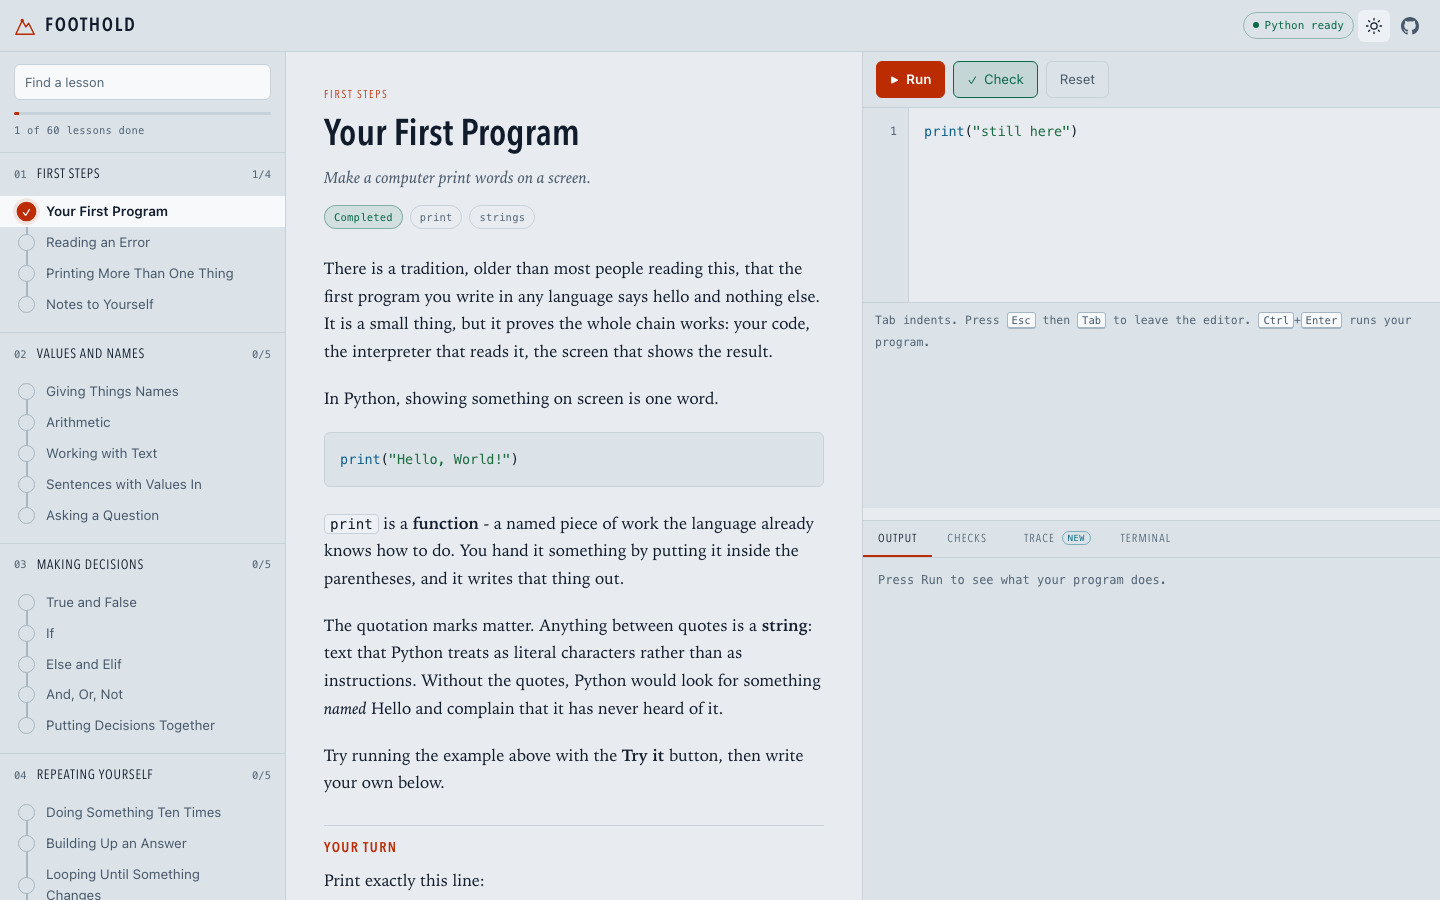
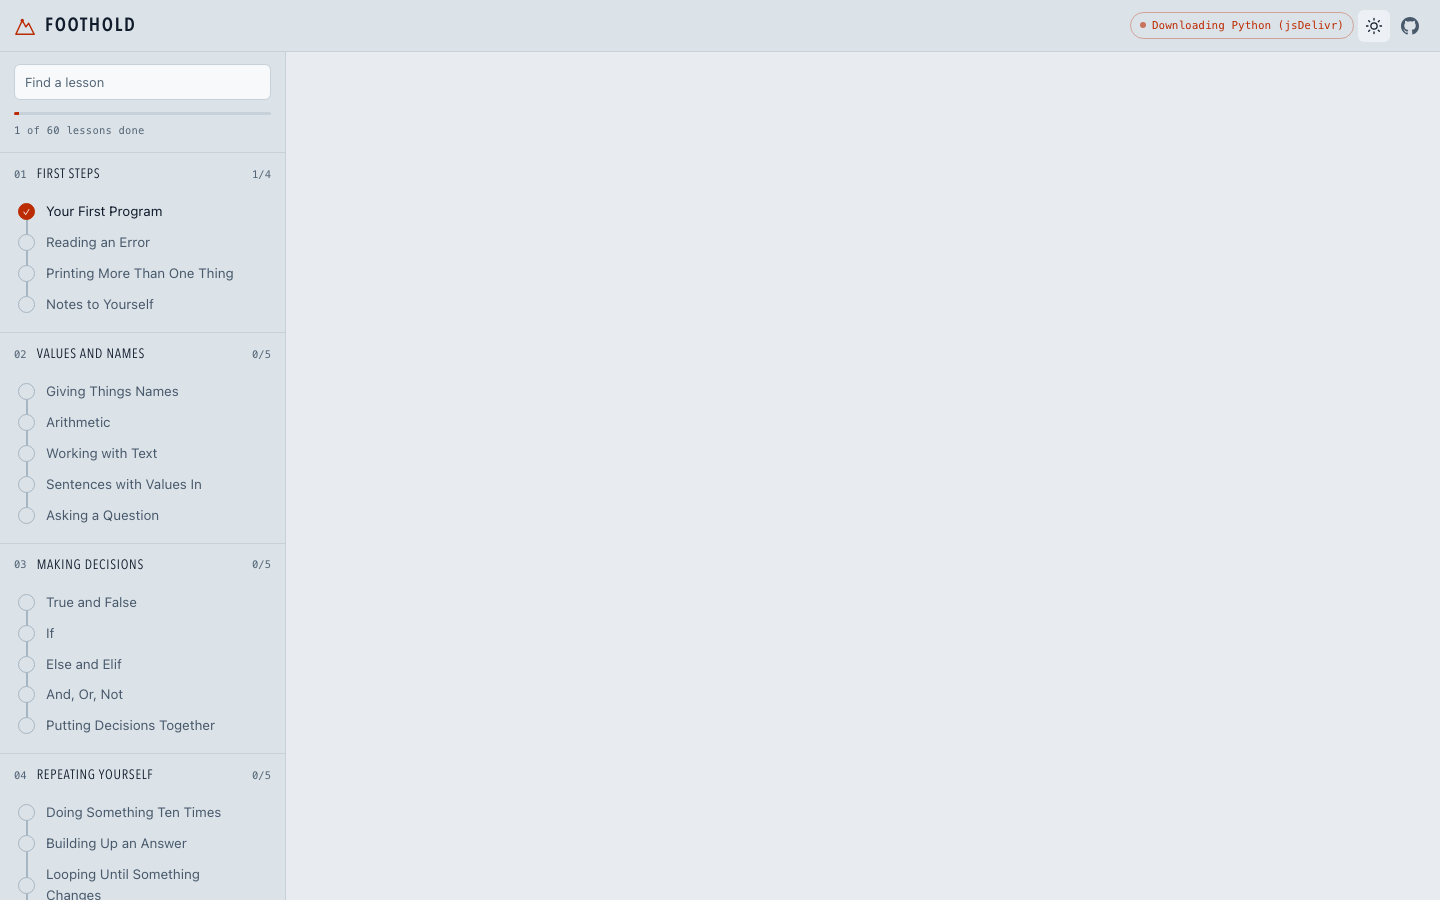
Fix the colours code is written in, and the check that could not fail
A live audit failed on a keyword at 4.36:1 and passed a minute later, which
looked like a flake. It was not. The trace marker tints the line it sits on,
and syntax colours on a tinted line lose contrast, so whether the audit
failed depended on which frame it caught.

Measuring properly turned up worse. axe had never judged any of this: the
editor is a transparent textarea over a highlighted <pre>, so every token
comes back "incomplete" rather than pass or fail, and the sixty-odd
incomplete results in earlier runs were exactly these. Three real failures
were sitting behind that:

  tok-comment   2.74 light, 3.49 dark   every starter file opens with a
                                        comment, so this is the first thing
                                        a beginner reads
  tok-number    4.24 light
  tok-keyword   4.36 on a marked line

Five token colours are corrected, solved against the worst surface each can
land on - a marked line over the lightest editor background - and checked
against the plain backgrounds too. Comments are lighter in dark and darker in
light than looks ideal, because they carry instructions and 4.5:1 is what
text a person has to read requires.

The check that now guards this was written twice. The first version built its
helper as a template literal, which turned /[\d.]+/ into /[d.]+/. It matched
no digits, every colour parsed to an empty array, every ratio came out NaN,
[…]

diff --git a/web/css/app.css b/web/css/app.css
@@ -53,7 +53,11 @@
   --tok-keyword: #ff8f6b;
   --tok-string: #9ed7a4;
   --tok-number: #d8c06a;
-  --tok-comment: #5f7183;
+  /* Comments carry instructions here - every starter file opens with one -
+     so they are held to the 4.5:1 that body text needs, measured against a
+     line with the trace marker on it, which is the lightest a comment ever
+     sits on. Receding further would look better and be unreadable. */
+  --tok-comment: #8799ab;
   --tok-builtin: #7fc3e8;
   --tok-call: #e4ebf0;
   --tok-defname: #ffd08a;
@@ -99,10 +103,10 @@
   --fail-soft: rgba(165, 48, 28, 0.09);
   --note: #096d86;
 
-  --tok-keyword: #a63a05;
-  --tok-string: #1c6b41;
-  --tok-number: #8a6100;
-  --tok-comment: #7e91a1;
+  --tok-keyword: #a23601;
+  --tok-string: #18673d;
+  --tok-number: #7a5100;
+  --tok-comment: #4a5d6d;
   --tok-builtin: #0f5f8a;
   --tok-call: #14202b;
   --tok-defname: #7a4b00;
